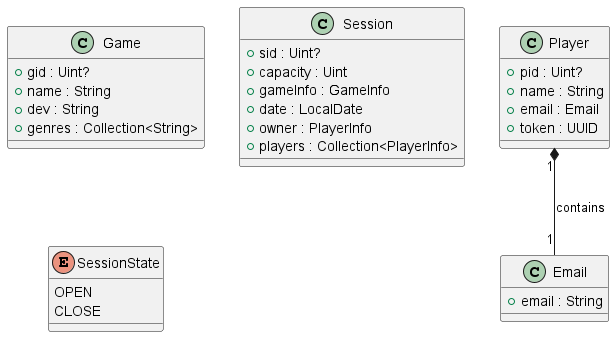
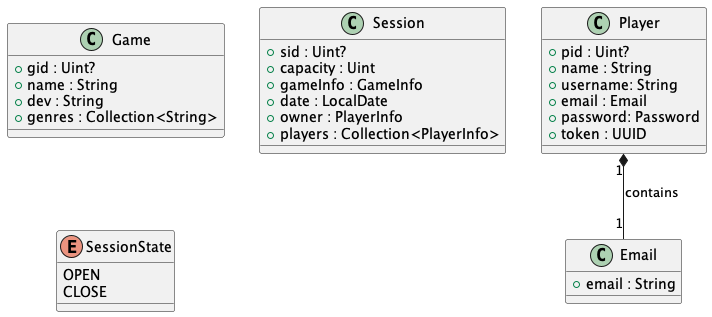
documentation update.

diff --git a/README.md b/README.md
@@ -46,6 +46,12 @@ The following diagram holds the Entity-Relationship model for the information ma
 
 ---
 
+### ErrorDiagram:
+
+<img src="resources/ErrorDiagram.png">
+
+---
+
 ### StorageDiagram:
 
 <img src="resources/StorageDiagram.png">
@@ -90,7 +96,7 @@ The following diagram holds the Entity-Relationship model for the information ma
 
 ## Physical Model
 
-The physical model of the database is available in [SQL script](phase3/src/main/sql).
+The physical model of the database is available in [SQL script](phase4/src/main/sql).
 
 ---
 
@@ -106,6 +112,9 @@ The physical model of the database is available in [SQL script](phase3/src/main/
 ---
 
 ## Web page
+
+The [web page](https://service-ls-2324-2-43d-g08.onrender.com) is the interface that the user will use to interact with the application.
+- https://service-ls-2324-2-43d-g08.onrender.com
 
 # Web Application User Guide
 
@@ -133,9 +142,22 @@ The application currently doesn't have a login or registration system, so you ca
 
 The web application has a simple and intuitive interface that allows users to easily access the main features of the application.
 
-### Home Page
+### Login Page
 
-<img src="resources/homePage.jpeg">
+<div align="center">
+    <img src="resources/loginpage.png">
+</div>
+
+### Registration Page
+
+<div align="center">
+    <img src="resources/registerPage.png">
+</div>
+
+### Home Page
+<div align="center">
+    <img src="resources/homePage.jpeg">
+</div>
 
 The home page is the main landing page of the application. It provides information of the current user such as the name, username, and email. It also displays two buttons:
 - Your sessions: when clicked it will show the sessions that the user is part of.
@@ -149,7 +171,13 @@ The home page is the main landing page of the application. It provides informati
 
 The navigation menu is located at the left of the page and provides links to different parts of the application. The menu includes the following options:
 
+### Change Theme Button
 
+<div align="center">
+    <img src="resources/buttonTheme.png">
+</div>
+
+The change theme button allows the user to change the theme of the application. The application has two themes: light and dark. Clicking the button will toggle between the two themes.
 
 - Home: navigates to the home page.
 
@@ -532,7 +560,7 @@ SELECT name FROM GENRE JOIN GAME_GENRE ON GENRE.name = GAME_GENRE.genre
 ---
 - to create a player:
 ```sql
-INSERT INTO PLAYER (name, email, token, username) VALUES (?, ?, ?, ?)
+INSERT INTO PLAYER (name, email, token, username, password) VALUES (?, ?, ?, ?, ?)
 ```
 ---
 - to read a player:
@@ -612,22 +640,18 @@ SELECT * FROM PLAYER_SESSION WHERE pid = ? AND sid = ?
 The errors are handled in the services module, where the exceptions are caught,
 and a response with ServicesError is sent to the webApi handler.
 
-the error caught are:
-- IllegalArgumentException
-- IllegalStateException
+the error caught are:n
 - NoSuchElementException
-- SQLException
+- StorageError
+- ServicesError
+- ParamError
 
 ---
 
 # Critical Evaluation
 
-## Not concluded functionalities and defects
-- the lack of possibility to update a player. (can be used to update the token).
+## Not concluded functionalities and defects:
 - the lack of possibility to delete a player or game
-- the possibility to filter the players using its email.
 
 ## Improvements to be made:
-- Implement the possibility to update a player.
 - Implement the possibility to delete a player or game.
-- Implement the possibility to filter the players using its email.
